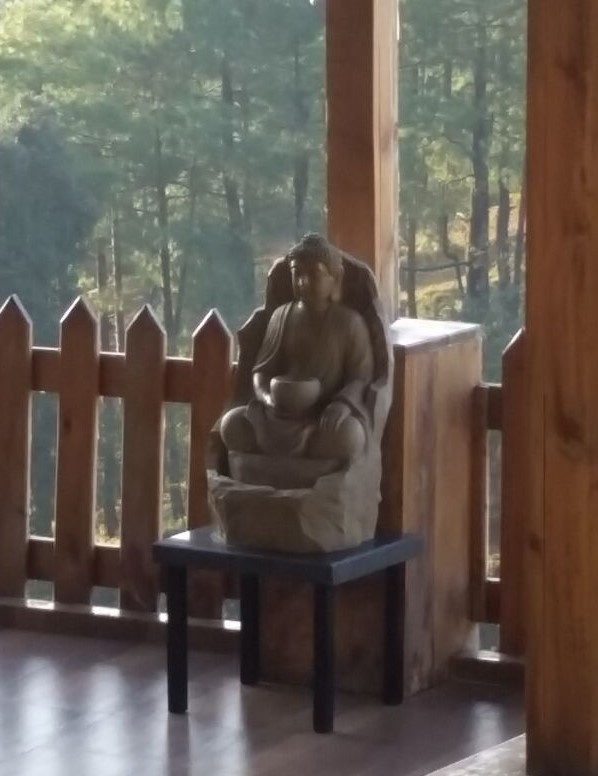
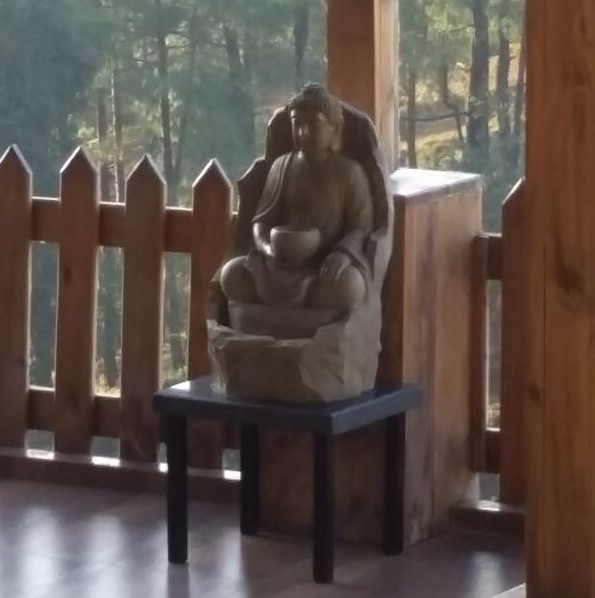
changed size of Buddha pic and changed size of window contents to 11 columns

diff --git a/index.html b/index.html
@@ -48,36 +48,36 @@
   
 <div class="container-fluid; text-center">
   <div class="row content">
-    <div class="col-sm-2 sidenav">
+    <div class="col-sm-3 sidenav">
       <div>
-        <img src="cityDharamsala.jpg"; alt="Dharamsala"; title="Dharamsala"; width=100%>
+        <img src="cityDharamsala.jpg"; alt="Dharamsala"; title="Dharamsala"; width=75%; border: 5px; border-color:red>
       </div>
       <br>
       <div>
-        <img src="woods.jpg"; alt="Muir Woods"; title="Muir Woods"; width=100%>
+        <img src="woods.jpg"; alt="Muir Woods"; title="Muir Woods"; width=75%>
       </div>
       <br>
       <div>
-        <img src="templeDalaiLama.jpg"; alt="Dalai Lama's temple prayer wheels"; title="Dalai Lama's temple prayer wheels"; width=100%>
+        <img src="templeDalaiLama.jpg"; alt="Dalai Lama's temple prayer wheels"; title="Dalai Lama's temple prayer wheels"; width=75%>
       </div>
     </div>
-    <div class="col-sm-8 text-left">
+    <div class="col-sm-5 text-left">
       <h2 style="font-family:Matura MT Script Capitals", Times New Roman, Serif;">Travel as a hobby</h2><br>
       <div>
         <p>I have been fortunate enough to travel to many places in the United States:  Philadelphia, New York, Portland, San Diego, San Jose and San Francisco, just in the past two years!  I also traveled to India last October and was able to attend my cousin's wedding in Indore.  I also visited the Dalai Lama's home.</p>
       </div>  
     </div>
-    <div class="col-sm-2 sidenav">
+    <div class="col-sm-3 sidenav">
       <div>
-        <img src="shrineBuddha.jpg"; alt="Buddha Shrine"; title="Buddha Shrine"; width=100%>
+        <img src="shrineBuddha.jpg"; alt="Buddha Shrine"; title="Buddha Shrine"; width=75%>
       </div>
       <br>
       <div>
-        <img src="hennaLeft.jpg"; alt="Left hand with henna"; title="Left hand with henna"; width=100%>
+        <img src="hennaLeft.jpg"; alt="Left hand with henna"; title="Left hand with henna"; width=75%>
       </div>
       <br>
       <div>
-        <img src="templeArtInstitute.jpg"; alt="Dalai Lama's temple prayer wheels"; title="Temple at the Tibetan Art Institute" alt="Temple at the Tibetan Art Institute"; width=100%>
+        <img src="templeArtInstitute.jpg"; alt="Dalai Lama's temple prayer wheels"; title="Temple at the Tibetan Art Institute" alt="Temple at the Tibetan Art Institute"; width=75%>
       </div>
     </div>
   </div>
